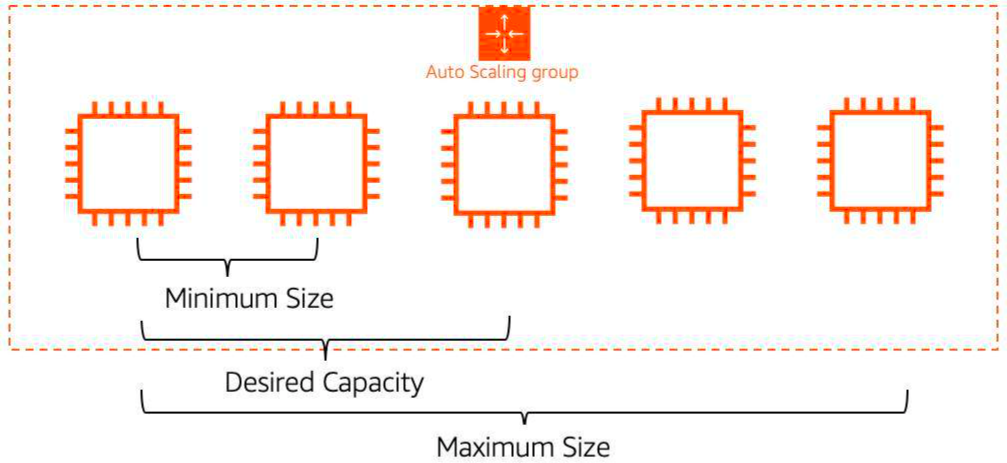
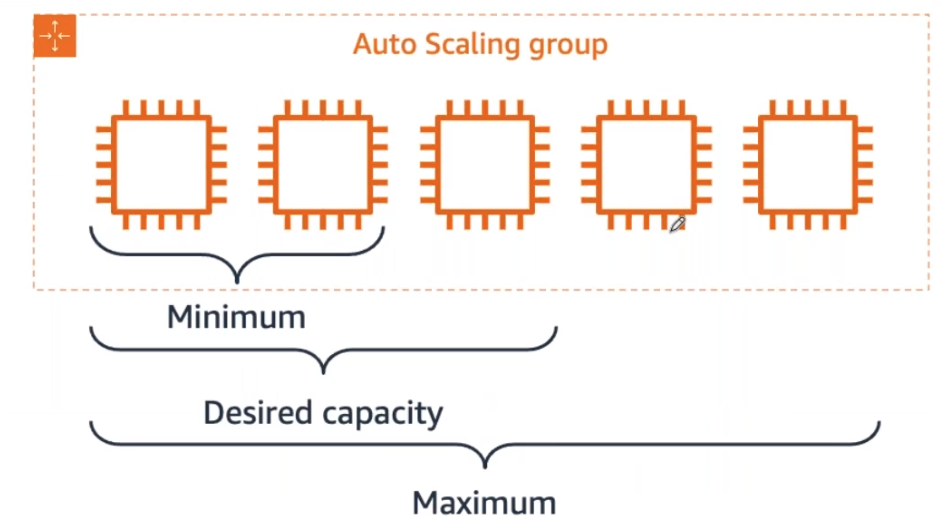
MOD: Update AWS Technical Essentials

diff --git a/technical/module-6/aws-ec2-auto-scaling.md b/technical/module-6/aws-ec2-auto-scaling.md
@@ -4,6 +4,9 @@
 Availability and reachability is improved by adding one more server. However, the entire system can again become unavailable if there is a capacity issue. This section looks at load issue for both types of systems discussed – active-passive and active-active.
 
 ## Vertical Scaling
+
+> ![vertical-scaling](../assets/img/vertical-scaling.png)
+
 If too many requests are sent to a single active-passive system, the active server will become unavailable and hopefully failover to the passive server. But this doesn’t solve anything.
 
 With active-passive, you need vertical scaling. This means increasing the size of the server. With EC2 instances, you select either a larger type or a different instance type. This can only be done while the instance is in a stopped state.
@@ -19,6 +22,9 @@ When the number of requests reduces, the same operation must be done. Even thoug
 This is where the active-active system can help. When there are too many requests, this system can be scaled horizontally by adding more servers.
 
 ## Horizontal Scaling
+
+> ![horizontal-scaling](../assets/img/horizontal-scaling.png)
+
 As mentioned, for the application to work in an active-active system, it’s already created as stateless, not storing any client sessions on the server. This means that having two servers or having four wouldn’t require any application changes. It would only be a matter of creating more instances when required and shutting them down when traffic decreases. The Amazon EC2 Auto Scaling service can take care of that task by automatically creating and removing EC2 instances based on metrics from Amazon CloudWatch.
 
 You can see that there are many more advantages to using an active-active system in comparison with an active-passive. Modifying your application to become stateless enables scalability.
@@ -38,6 +44,9 @@ The cloud works differently with a pay-as-you-go model. You must turn off the un
 The need here is for a tool that automatically adds and removes EC2 instances according to conditions you define – that’s exactly what the EC2 Auto Scaling service does.
 
 ## Amazon EC2 Auto Scaling
+
+> ![aws-ec2-autoscaling](../assets/img/aws-ec2-autoscaling.png)
+
 The Amazon EC2 Auto Scaling service adds and removes capacity to keep a steady and predictable performance at the lowest possible cost. By adjusting the capacity to exactly what your application uses, you only pay for what your application needs. And even with applications that have steady usage, EC2 Auto Scaling can help with fleet management. If an EC2 instance has an issue, EC2 Auto Scaling can automatically replace the instance. This means that EC2 Auto Scaling helps both to scale your infrastructure and ensure high availability.
 
 ## Configure EC2 Auto Scaling components
@@ -52,7 +61,9 @@ Multiple parameters are required to create EC2 instances – Amazon Machine Imag
 
 You can use a launch template to manually launch an EC2 instance. You can also use it with EC2 Auto Scaling. It also supports versioning, which allows for quickly rolling back if there's an issue or a need to specify a default version. This way, while iterating on a new version, other users can continue launching EC2 instances using the default version until you make the necessary changes.
 
-![aws-auto-scaling-launch-template](../assets/img/aws-auto-scaling-launch-template.png)
+> ![aws-auto-scaling-launch-template](../assets/img/aws-auto-scaling-launch-template.png)
+>
+> Example of a launch template with three versions
 
 You can create a launch template in one of three ways.
 * The fastest way to create a template is to use an existing EC2 instance. All the settings are already defined.
@@ -71,7 +82,7 @@ To specify how many instances EC2 Auto Scaling should launch, you have three cap
 * **Maximum**: The maximum number of instances running in your Auto Scaling group, even if the threshold for adding new instances is reached.
 * **Desired capacity**: The amount of instances that should be in your Auto Scaling group. This number can only be within or equal to the minimum or maximum. EC2 Auto Scaling automatically adds or removes instances to match the desired capacity number.
 
-![aws-auto-scaling-groups](../assets/img/aws-auto-scaling-groups.png)
+> ![aws-auto-scaling-groups](../assets/img/aws-auto-scaling-groups.png)
 
 When EC2 Auto Scaling removes EC2 instances because the traffic is minimal, it keeps removing EC2 instances until it reaches a minimum capacity. Depending on your application, using a minimum of two is a good idea to ensure high availability, but you know how many EC2 instances at a bare minimum your application requires at all times. When reaching that limit, even if EC2 Auto Scaling is instructed to remove an instance, it does not, to ensure the minimum is kept.
 
@@ -82,7 +93,7 @@ The desired capacity is the amount of EC2 instances that EC2 Auto Scaling create
 ## Availability with EC2 Auto Scaling
 Different numbers for minimum, maximum, and desired capacity are used for dynamically adjusting the capacity. However, if you prefer to use EC2 Auto Scaling for fleet management, you can configure the three settings to the same number, for example four, as shown in the image. EC2 Auto Scaling will ensure that if an EC2 instance becomes unhealthy, it replaces it to always ensure that four EC2 instances are available. This ensures high availability for your applications.
 
-![aws-auto-scaling-groups-with-ec2](../assets/img/aws-auto-scaling-groups-with-ec2.png)
+> ![aws-auto-scaling-groups-with-ec2](../assets/img/aws-auto-scaling-groups-with-ec2.png)
 
 ## Automation with scaling policies
 By default, an Auto Scaling group will be kept to its initial desired capacity. While it’s possible to manually change the desired capacity, you can also use scaling policies.

diff --git a/technical/module-6/aws-cloudwatch.md b/technical/module-6/aws-cloudwatch.md
@@ -1,5 +1,7 @@
 # Amazon CloudWatch
 
+> ![aws-cloudwatch](../assets/img/aws-cloudwatch.png)
+
 ### How CloudWatch works
 With CloudWatch, all you need to get started is an AWS account. It is a managed service that you can use for monitoring, without managing the underlying infrastructure. Monitoring the individual services independently could be challenging. CloudWatch acts as a centralized place where metrics are gathered and analyzed. You already learned how EC2 instances post CPU utilization as a metric to CloudWatch. Different AWS resources post different metrics that you can monitor. You can view a list of services that send metrics to CloudWatch in the Resources section.
 
@@ -8,6 +10,11 @@ Many AWS services send metrics automatically for free to CloudWatch at a rate of
 For applications running on EC2 instances, you can get more granularity by posting metrics every minute instead of every 5 minutes using a feature like detailed monitoring. Detailed monitoring incurs a fee.
 
 ## CloudWatch Metrics
+
+> ![aws-cloudwatch-metrics](../assets/img/aws-cloudwatch-metrics.png)
+>
+> Example: Amazon EC2 instance metrics
+
 Each metric in CloudWatch has a timestamp and is organized into containers called ***namespaces***. Metrics in different namespaces are isolated from each other – you can think of them as belonging to different categories.
 
 AWS services that send data to CloudWatch attach dimensions to each metric. A dimension is a name/value pair that is part of the metric’s identity. You can use dimensions to filter the results that CloudWatch returns. For example, you can get statistics for a specific EC2 instance by specifying the InstanceId dimension when you search.
@@ -39,6 +46,11 @@ You are not bound to using CloudWatch exclusively for all your visualization nee
 As far as security goes, you can control who has access to view or manage your CloudWatch dashboards through AWS Identity and Access Management (IAM) policies that get associated with IAM users, IAM groups, or IAM roles.
 
 ## Amazon CloudWatch Logs
+
+> ![aws-cloudwatch-logs](../assets/img/aws-cloudwatch-logs.png)
+>
+> Example: AWS Service logs
+
 CloudWatch can also be the centralized place for logs to be stored and analyzed, using Amazon CloudWatch Logs. CloudWatch Logs can monitor, store, and access your log files from applications running on Amazon EC2 instances, AWS Lambda functions, and other sources.
 
 CloudWatch Logs allows you to query and filter your log data. For example, suppose you’re looking into an application logic error for your application, and you know that when this error occurs it will log the stack trace. Since you know it logs the error, you query your logs in CloudWatch Logs to find the stack trace. You also set up metric filters on logs, which turn log data into numerical CloudWatch metrics that you can graph and use on your dashboards.
@@ -62,6 +74,11 @@ Log data sent to CloudWatch Logs can come from different sources, so it’s impo
 **Log groups**: Log streams are then organized into log groups. A ***log group*** is composed of log streams that all share the same retention and permissions settings. For example, if you have multiple EC2 instances hosting your application and you are sending application log data to CloudWatch Logs, you can group the log streams from each instance into one log group. This helps keep your logs organized.
 
 ## CloudWatch alarms
+
+> ![aws-cloudwatch-alarms](../assets/img/aws-cloudwatch-alarms.png)
+>
+> Example: Amazon EC2 instance alarms: CPU Utilization > 75
+
 You can create CloudWatch alarms to automatically initiate actions based on sustained state changes of your metrics. You configure when alarms are triggered and the action that is performed.
 
 You first must decide which metric you want to set an alarm for, and then you define the threshold that will trigger the alarm. Next, you define the threshold's time period. For example, if you want to set up an alarm for an EC2 instance to trigger when the CPU utilization goes over a threshold of 80%, you also must specify the time period the CPU utilization is over the threshold. You don’t want to trigger an alarm based on short temporary spikes in the CPU. You only want to trigger an alarm if the CPU is elevated for a sustained amount of time. For example, if CPU utilization is over 80% for 5 minutes or longer, there might be a resource issue. Keeping all that in mind, to set up an alarm you need to choose the metric, threshold, and time period.

diff --git a/technical/module-4/storage-types.md b/technical/module-4/storage-types.md
@@ -5,7 +5,7 @@ AWS storage services are grouped into three categories – block storage, file s
 ## File Storage
 You might be familiar with file storage if you have interacted with file storage systems like Windows File Explorer or Finder on macOS. Files are organized in a tree-like hierarchy that consists of folders and subfolders. For example, if you have hundreds of cat photos on your laptop, you might want to create a folder called Cat photos, and place the images inside that folder to organize them. Since you know these images will be used in an application, you might want to place the Cat photos folder inside another folder called Application files.
 
-![storage-type-file](../assets/img/storage-type-file.jpg)
+> ![storage-type-file](../assets/img/storage-type-file.jpg)
 
 Each file has metadata such as file name, file size, and the date the file was created. The file also has a path, for example, computer/Application_files/Cat_photos/cats-03.png. When you need to retrieve a file, your system can use the path to find it in the file hierarchy.
 
@@ -17,20 +17,28 @@ Common use cases for file storage include:
 * User home directories
 
 ## Block Storage
+
+> ![storage-type-block](../assets/img/storage-type-block.png)
+
 While file storage treats files as a singular unit, block storage splits files into fixed-size chunks of data called blocks that have their own addresses. Since each block is addressable, blocks can be retrieved efficiently.
 
 When data is requested, the addresses are used by the storage system to organize the blocks in the correct order to form a complete file to present back to the requestor. Outside of the address, no additional metadata is associated with each block. So, when you want to change a character in a file, you just change the block, or the piece of the file, that contains the character. This ease of access is why block storage solutions are fast and use less bandwidth.
 
-![storage-type-block](../assets/img/storage-type-block.png)
+> ![block-storage-types](../assets/img/block-storage-types.png)
+>
+> Types of block storage
 
 Since block storage is optimized for low-latency operations, it is a typical storage choice for high-performance enterprise workloads, such as databases or enterprise resource planning (ERP) systems, that require low-latency storage.
 
 ## Object Storage
-Objects, much like files, are treated as a single unit of data when stored. However, unlike file storage, these objects are stored in a flat structure instead of a hierarchy. Each object is a file with a unique identifier. This identifier, along with any additional metadata, is bundled with the data and stored.
 
-Changing just one character in an object is more difficult than with block storage. When you want to change one character in a file, the entire file must be updated.
+> ![storage-type-object](../assets/img/storage-type-object.png)
 
-![storage-type-object](../assets/img/storage-type-object.png)
+Objects, much like files, are treated as a single unit of data when stored. However, unlike file storage, these objects are stored in a flat structure instead of a hierarchy. Each object is a file with a unique identifier. This identifier, along with any additional metadata, is bundled with the data and stored. Changing just one character in an object is more difficult than with block storage. When you want to change one character in a file, the entire file must be updated.
+
+> ![working-with-objects](../assets/img/working-with-objects.png)
+>
+> Working with *objects*
 
 With object storage, you can store almost any type of data, and there is no limit to the number of objects stored, which makes it readily scalable. Object storage is generally useful when storing large datasets; unstructured files, like media assets; and static assets, like photos.
 

diff --git a/technical/module-5/aws-databases.md b/technical/module-5/aws-databases.md
@@ -8,7 +8,7 @@ A **relational database** organizes data into tables. Data in one table can be l
 
 A table stores data in rows and columns. A row, often called a record, contains all information about a specific entry. Columns describe attributes of an entry. Here’s an example of three tables in a relational database.
 
-![databases-aws](../assets/img/databases-aws.png)
+> ![databases-aws](../assets/img/databases-aws.png)
 
 This shows a table for books, a table for sales, and a table for authors. In the books table, each row includes the book ISBN, title, author, and format. Each of these attributes is stored in its own column. The books table has something in common with the other two tables – the author attribute. That common column creates a relationship between the tables.
 
@@ -37,6 +37,8 @@ Relational database offer a number of benefits, including the following:
 * **Familiarity**: Relational databases have been a popular choice since the 1970s. Due to this popularity, technical professionals often have familiarity and experience with this type of database.
 * **Accuracy**: Relational databases ensure that your data is persisted with high integrity and adheres to the atomicity, consistency, isolation, durability (ACID) principle.
 
+> ![relational-database-benefits](../assets/img/relational-database-benefits.png)
+
 ### Relational database use cases
 Much of the world runs on relational databases. In fact, they’re at the core of many mission-critical applications, some of which you might use in your day-to-day life. Here are some common use cases for relational databases.
 * Applications that have a solid schema that doesn’t change often, such as lift-and-shift applications that lift an app from on-premises and shifts it to the cloud, with little or no modifications.
@@ -53,7 +55,7 @@ If you operate a relational database on-premises (in your own data center), you 
 
 ### Unmanaged database
 
-![unmanaged-database](../assets/img/unmanaged-database.png)
+> ![unmanaged-database](../assets/img/unmanaged-database.png)
 
 Now, suppose you want to shift some of the work to AWS by running your relational database on Amazon EC2. If you host a database on Amazon EC2, AWS takes care of implementing and maintaining the physical infrastructure and hardware, and installing the operating system of the EC2 instance. However, you would still be responsible for managing the EC2 instance, managing the database on that host, optimizing queries, and managing customer data.
 
@@ -61,7 +63,7 @@ This is referred to as an unmanaged database option. In this option, AWS is resp
 
 ### Managed database
 
-![managed-database](../assets/img/managed-database.jpg)
+> ![managed-database](../assets/img/managed-database.png)
 
 To shift more of the work to AWS, you can use a managed database service. These services provide the setup of both the EC2 instance and the database, and they provide systems for high availability, scalability, patching, and backups. However, in this model, you’re still responsible for database tuning, query optimization, and of course, ensuring that your customer data is secure. This option provides the ultimate convenience but the least amount of control compared to the two previous options.
 

diff --git a/technical/module-5/aws-dynamodb.md b/technical/module-5/aws-dynamodb.md
@@ -6,6 +6,10 @@ With DynamoDB, you can create database tables that can store and retrieve any am
 
 DynamoDB automatically spreads the data and traffic for your tables over a sufficient number of servers to handle your throughput and storage requirements, while maintaining consistent and fast performance. All of your data is stored on *solid-state disks (SSDs)* and is automatically replicated across multiple Availability Zones in an AWS Region, providing built-in high availability and data durability.
 
+> ![aws-dynamodb-benefits](../assets/img/aws-dynamodb-benefits.png)
+>
+> Benefits of Amazon DynamoDB
+
 ## Amazon DynamoDB core components
 In DynamoDB, tables, items, and attributes are the core components that you work with. A **table** is a collection of items, and each item is a collection of attributes. DynamoDB uses *primary keys* to uniquely identify each item in a table and secondary indexes to provide more querying flexibility.
 
@@ -14,6 +18,8 @@ The following are the basic DynamoDB components:
 * **Tables** – Similar to other database systems, DynamoDB stores data in tables. A *table* is a collection of data. For instance, you could have a table called People that you could use to store personal contact information about friends, family, or anyone else of interest. You could also have a Cars table to store information about vehicles that people drive.
 * **Items** – Each table contains zero or more items. An *item* is a group of attributes that is uniquely identifiable among all the other items. In a People table, each item represents a person. In a Cars table, each item represents one vehicle. Items in DynamoDB are similar in many ways to rows, records, or tuples in other database systems. In DynamoDB, there is no limit to the number of items you can store in a table.
 * **Attributes** – Each item is composed of one or more attributes. An attribute is a fundamental data element, something that does not need to be broken down any further. For example, an item in a People table might contain attributes called PersonID, LastName, FirstName, and so on. In a Department table, an item might have attributes such as DepartmentID, Name, Manager, and so on. Attributes in DynamoDB are similar in many ways to fields or columns in other database systems.
+
+> ![aws-dynamodb-core-components](../assets/img/aws-dynamodb-core-components.png)
 
 ## Amazon DynamoDB security
 DynamoDB also offers encryption at rest, which eliminates the operational burden and complexity involved in protecting sensitive data. For more information, see [DynamoDB Encryption at Rest](https://docs.aws.amazon.com/amazondynamodb/latest/developerguide/EncryptionAtRest.html).

diff --git a/technical/module-4/aws-object-storage-with-s3.md b/technical/module-4/aws-object-storage-with-s3.md
@@ -1,6 +1,9 @@
 # Object Storage with Amazon Simple Storage Service
 
 ## Amazon S3
+
+> ![amazon-s3](../assets/img/amazon-s3.png)
+
 Unlike Amazon Elastic Block Store (Amazon EBS), Amazon Simple Storage Service (Amazon S3) is a standalone storage solution that isn’t tied to compute. It enables you to retrieve your data from anywhere on the web. If you have used an online storage service to back up the data from your local machine, then you most likely have used a service similar to Amazon S3. The big difference between those online storage services and Amazon S3 is the storage type.
 
 Amazon S3 is an object storage service. Object storage stores data in a flat structure, using unique identifiers to look up objects when requested. An object is  a file combined with metadata. You can store as many of these objects as you’d like. All of the characteristics of object storage are also characteristics of Amazon S3.
@@ -37,7 +40,7 @@ Everything in Amazon S3 is private by default. This means that all S3 resources,
 
 If you decide that you want everyone on the internet to see your photos, you can choose to make your buckets, folders, and objects public. A public resource means that everyone on the internet can see it. Most of the time, you don’t want your permissions to be all or nothing. Typically, you want to be more granular about the way you provide access to your resources.
 
-![aws-s3-access](../assets/img/aws-s3-access.png)
+> ![aws-s3-access](../assets/img/aws-s3-access.png)
 
 To be more specific about who can do what with your Amazon S3 resources, Amazon S3 provides two main access management features – IAM policies and S3 bucket policies.
 
@@ -93,7 +96,7 @@ This can be an issue for several reasons, including the following:
 
 To counteract these issues, you can use S3 versioning. Versioning keeps multiple versions of a single object in the same bucket. This preserves old versions of an object without using different names, which helps with file recovery from accidental deletions, accidental overwrites, or  application failures.
 
-![aws-s3-example-object](../assets/img/aws-s3-example-object.png)
+> ![aws-s3-example-object](../assets/img/aws-s3-example-object.png)
 
 If you enable versioning for a bucket, Amazon S3 automatically generates a unique version ID for the object. In one bucket, for example, you can have two objects with the same key, but different version IDs, such as employeephoto.gif (version 111111) and employeephoto.gif (version 121212).
 

diff --git a/technical/module-5/aws-rds.md b/technical/module-5/aws-rds.md
@@ -1,16 +1,18 @@
 # Amazon Relational Database Service
 
+> ![amazon-rds](../assets/img/amazon-rds.png)
+
 *Amazon Relational Database Service (Amazon RDS)* lets customers create and manage relational databases in the cloud without the operational burden of traditional database management. For example, if you sell healthcare equipment and your goal is to be the number-one seller in the Pacific Northwest, building a database doesn’t directly help you achieve that goal, although having a database is necessary to achieve the goal.
 
 Amazon RDS offloads some of the unrelated work of creating and managing a database. You can focus on the tasks that differentiate your application, instead of focusing on infrastructure-related tasks, like provisioning, patching, scaling, and restoring.
 
 Amazon RDS supports most of the popular relational database management systems, ranging from commercial options, open source options, and even an AWS-specific option. The supported Amazon RDS engines are:
 
-* **Commercial**: Oracle, SQL Server
+* **Commercial**: Oracle, Microsoft SQL Server (MSSQL)
 * **Open Source**: MySQL, PostgreSQL, MariaDB
 * **Cloud Native**: Amazon Aurora
 
-![aws-rds-engines](../assets/img/aws-rds-engines.png)
+> ![aws-rds-engines](../assets/img/aws-rds-engines.png)
 
 The cloud native option, Amazon Aurora, is a MySQL- and PostgreSQL-compatible database built for the cloud. It is more durable, more available, and provides faster performance than the Amazon RDS version of MySQL and PostgreSQL. To learn more about Amazon Aurora, view the Amazon Aurora FAQs.
 
@@ -50,6 +52,9 @@ Using these controls provide layers of security for your infrastructure. It rein
 Network ACLs and security groups help users dictate the flow of traffic. If you want to restrict the actions and resources others can access, you can use IAM policies.
 
 ### Backup data
+
+> ![rds-database-backup](../assets/img/rds-database-backup.png)
+
 You don’t want to lose you data. To take regular backups of your RDS instance, you can use:
 
 * Automatic backups

diff --git a/technical/module-3/amazon-vpc.md b/technical/module-3/amazon-vpc.md
@@ -1,13 +1,13 @@
 # Amazon Virtual Private Cloud
 
-A virtual private cloud (VPC) is an isolated network that you create in the AWS Cloud, similar to a traditional network in a data center. When you create a VPC, you must choose three main factors:
+A **virtual private cloud (VPC)** is an isolated network that you create in the AWS Cloud, similar to a traditional network in a data center. When you create a VPC, you must choose three main factors:
 * Name of the VPC
 * Region where the VPC will live. Each VPC spans multiple Availability Zones within the selected Region
 * IP range for the VPC in CIDR notation. This determines the size of your network. Each VPC can have up to four /16  IP ranges
 
 Using this information, AWS will provision a network and IP addresses for that network
 
-![aws vpc](../assets/img/aws-vpc.png)
+> ![aws vpc](../assets/img/aws-vpc.png)
 
 ## Create a subnet
 After you create your VPC, you must create subnets inside the network. Think of subnets as smaller networks inside your base network – or **virtual local area networks (VLANs)** in a traditional, on-premises network. In an **on-premises network**, the typical use case for subnets is to isolate or optimize network traffic. In AWS, subnets are used to provide high availability and connectivity options for your resources.
@@ -19,7 +19,7 @@ When you create a subnet, you must specify the following:
 
 When you launch an EC2 instance, you launch it inside a subnet, which will be located inside the Availability Zone you choose.
 
-![aws vpc subnet](../assets/img/aws-vpc-subnet.png)
+> ![aws vpc subnet](../assets/img/aws-vpc-subnet.png)
 
 ## High availability with a VPC
 When you create your subnets, keep high availability in mind. To maintain redundancy and fault tolerance, create at least two subnets configured in two Availability Zones.

diff --git a/technical/module-2/serverless.md b/technical/module-2/serverless.md
@@ -1,4 +1,7 @@
 # Serverless
+
+> ![serverless-compute](../assets/img/serverless-compute.png)
+
 **Serverless** allows you to build and run applications and services without thinking about servers. It eliminates infrastructure management tasks such as server or cluster provisioning, patching, operating system maintenance, and capacity provisioning. Serverless applications are event-driven and loosely coupled via technology-agnostic APIs or messaging. Event-driven code is executed in response to an event, such as a change in state or an endpoint request. Event-driven architectures decouple code from state. Integration between loosely couple components is usually done asynchronously, with messaging.
 
 ***AWS Lambda*** is a serverless compute service that is well suited to event-driven architectures. Lambda functions are triggered by events via integrated event sources such as Amazon Simple Queue Service (SQS), Amazon Simple Notification Service (SNS), and Amazon Kinesis that can be used to create asynchronous integrations. Lambda functions consume and produce events that other services can then consume.

diff --git a/technical/module-2/aws-lambda.md b/technical/module-2/aws-lambda.md
@@ -2,6 +2,8 @@
 
 AWS Lambda is a serverless, event-driven compute service that lets you run code for virtually any type of application or backend service without provisioning or managing servers. You can trigger Lambda from over 200 AWS services and software as a service (SaaS) applications, and only pay for what you use.
 
+> ![aws-lambda-1](../assets/img/aws-lambda-1.png)
+
 ## Go serverless
 Every definition of serverless mentions the following four aspects:
 * No servers to provision or manage
@@ -32,7 +34,7 @@ AWS Lambda requires zero administration from the user. You upload your source co
 ## How AWS Lambda works
 A Lambda function has three primary components – **trigger**, **code**, and **configuration**.
 
-![aws lambda](../assets/img/aws-lambda.jpg)
+> ![aws lambda](../assets/img/aws-lambda.jpg)
 
 The **code** is source code that describes what the Lambda function should run. It can be authored in three ways.
 * You create the code from scratch.

diff --git a/technical/module-6/monitoring.md b/technical/module-6/monitoring.md
@@ -27,6 +27,8 @@ Amazon Relational Database Service (Amazon RDS) creates metrics such as database
 ## Monitoring benefits
 Monitoring gives you visibility into your resources, but the question now is, "Why is that important?"
 
+> ![monitoring-benefits](../assets/img/monitoring-benefits.png)
+
 ### Respond to operational issues proactively before your end users are aware of them.
 Waiting for end users to let you know when your application is experiencing an outage is a bad practice. Through monitoring, you can keep tabs on metrics like error response rate and request latency. Over time, the metrics help signal when an outage is going to occur. This enables you to automatically or manually perform actions to prevent the outage from happening, and fix the problem before your end users are aware of it.
 

diff --git a/technical/module-6/aws-elb.md b/technical/module-6/aws-elb.md
@@ -9,6 +9,10 @@ A typical request for an application starts from a client's browser. The request
 
 Although it is possible to install your own software load balancing solution on EC2 instances, AWS provides a service for you called Elastic Load Balancing.
 
+> ![aws-elb-benefits](../assets/img/aws-elb-benefits.png)
+>
+> ELB Benefits
+
 ## ELB features
 The ELB service provides a major advantage over using your own solution to do load balancing – mainly, you don’t need to manage or operate it. It can distribute incoming application traffic across EC2 instances, containers, IP addresses, and AWS Lambda functions. Other key features include the following:
 * Because ELB can load balance to IP addresses, it can work in a hybrid mode, which mean it also load balances to on-premises servers.
